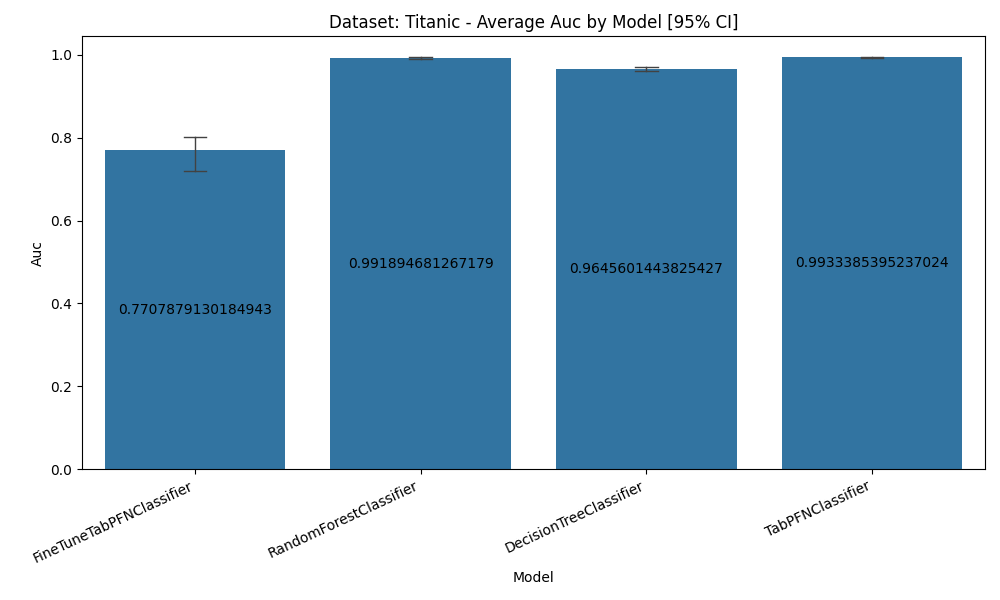
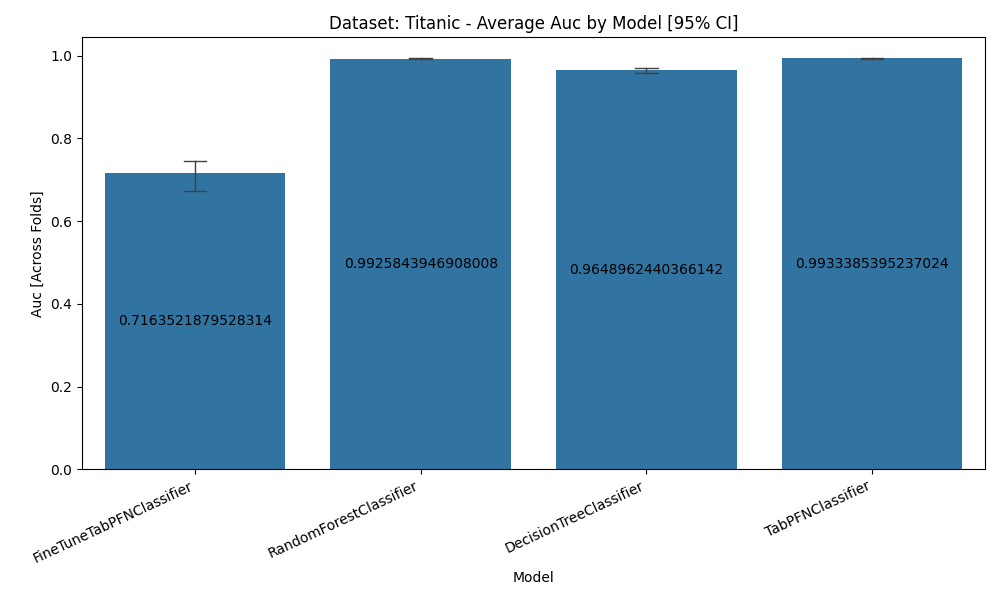
added plot across datasets

diff --git a/main.py b/main.py
@@ -26,7 +26,7 @@ setup_config = {
     # val_size is percentage w.r.t. the total dataset-rows ]0,1[
     "val_size": 0.25,
     "num_workers": 0,
-    "dataset_ids": [168746],  # , 23381]
+    "dataset_mapping": {168746: "Titanic", 9982: "Dress-Sales"},
     "log_wandb": False,
     "models": [
         FineTuneTabPFNClassifier,
@@ -47,7 +47,7 @@ modelkwargs_dict = {
     },
 }
 
-dataset_mapper = {168746: "Titanic"}
+dataset_mapper = {168746: "Titanic", 9982: "Dress-Sales"}
 
 
 logger = Logger(
@@ -70,7 +70,7 @@ else:
         set_seed_globally(random_state)
 
         # ---------- ---------- ---------- ---------- ----------  DATASET ID LOOP
-        for dataset_id in setup_config["dataset_ids"]:
+        for dataset_id in setup_config["dataset_mapping"].keys():
             # Step 3: Load  data
             data_manager = DataManager(
                 dir_path="data/dataset",
@@ -142,7 +142,9 @@ else:
 os.makedirs(f"{setup_config['results_path']}/plots/model_performance/", exist_ok=True)
 
 
-def bar_plot_dataset_performance_across_folds(metric, dataset_id, plot_settings):
+def bar_plot_dataset_performance_across_folds(
+    results_df, metric, dataset_id, plot_settings
+):
     dataset_name = dataset_mapper[dataset_id]
 
     selected_df = results_df[results_df["dataset_id"] == dataset_id][["model", metric]]
@@ -176,9 +178,9 @@ def bar_plot_dataset_performance_across_folds(metric, dataset_id, plot_settings)
     plt.xlabel("Model")
 
     if plot_settings.get(metric, {}).get("y_label"):
-        plt.ylabel(plot_settings[metric]["y_label"])
+        plt.ylabel(f"{plot_settings[metric]['y_label']} [Across Folds]")
     else:
-        plt.ylabel(metric.capitalize().replace("_", " "))
+        plt.ylabel(f"{metric.capitalize().replace('_', '')} [Across Folds]")
 
     plt.title(
         f"Dataset: {dataset_name} - Average {metric.capitalize()} by Model [95% CI]",
@@ -195,9 +197,7 @@ def bar_plot_dataset_performance_across_folds(metric, dataset_id, plot_settings)
     plt.close()
 
 
-def bar_plot_performance_across_datasets(dataset_ids, metric, plot_settings):
-    dataset_name = dataset_mapper[dataset_id]
-
+def bar_plot_performance_across_datasets(results_df, metric, plot_settings):
     selected_df = results_df[["model", metric]]
 
     # Create barplot
@@ -229,12 +229,12 @@ def bar_plot_performance_across_datasets(dataset_ids, metric, plot_settings):
     plt.xlabel("Model")
 
     if plot_settings.get(metric, {}).get("y_label"):
-        plt.ylabel(plot_settings[metric]["y_label"])
+        plt.ylabel(f"{plot_settings[metric]['y_label']} [Across Datasets]")
     else:
-        plt.ylabel(metric.capitalize().replace("_", " "))
+        plt.ylabel(f"{metric.capitalize().replace('_', ' ')} [Across Datasets]")
 
     plt.title(
-        f"Dataset: {dataset_name} - Average {metric.capitalize()} by Model [95% CI]",
+        f"Average {metric.capitalize()} by Model [95% CI]",
     )
 
     # Rotate x-axis labels for better readability
@@ -243,7 +243,7 @@ def bar_plot_performance_across_datasets(dataset_ids, metric, plot_settings):
     # Show plot
     plt.tight_layout()
     plt.savefig(
-        f"{setup_config['results_path']}/plots/model_performance/{metric}_{dataset_name}.png",
+        f"{setup_config['results_path']}/plots/model_performance/{metric}_across_datasets.png",
     )
     plt.close()
 
@@ -260,17 +260,19 @@ plot_settings = {
     "f1": {"bar_label": "center"},
     "cross_entropy": {"bar_label": "center"},
 }
-performance_metrics = ["accuracy"]
-#    , "auc",
-#     "f1",
-#     "cross_entropy",
-#     "time_fit",
-#     "time_predict",
-# ]
+performance_metrics = [
+    "accuracy",
+    "auc",
+    "f1",
+    "cross_entropy",
+    "time_fit",
+    "time_predict",
+]
 
 for metric in performance_metrics:
-    for dataset_id in setup_config["dataset_ids"]:
+    for dataset_id in setup_config["dataset_mapping"].keys():
         bar_plot_dataset_performance_across_folds(
+            results_df=results_df,
             metric=metric,
             dataset_id=dataset_id,
             plot_settings=plot_settings,
@@ -279,7 +281,7 @@ for metric in performance_metrics:
 
 for metric in performance_metrics:
     bar_plot_performance_across_datasets(
-        dataset_ids=setup_config["dataset_ids"],
+        results_df=results_df,
         metric=metric,
         plot_settings=plot_settings,
     )

diff --git a/models/MockTabPFN.py b/models/MockTabPFN.py
@@ -1,5 +1,6 @@
 import torch.nn as nn
 import torch
+import os
 
 
 class MockTabPFN(nn.Module):
@@ -20,4 +21,6 @@ class MockTabPFN(nn.Module):
 
     def save_weights(self, file_path):
         # Ensure the path exists
+        dir_path = os.path.join(*file_path.split("/")[:-1])
+        os.makedirs(dir_path, exist_ok=True)
         torch.save(self.linear.weight, file_path)
